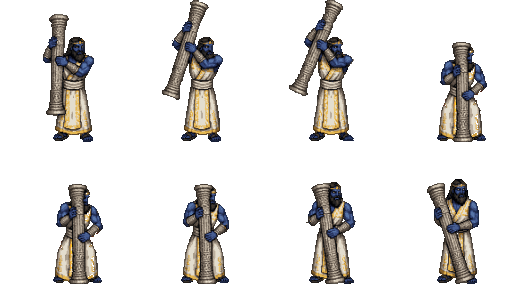
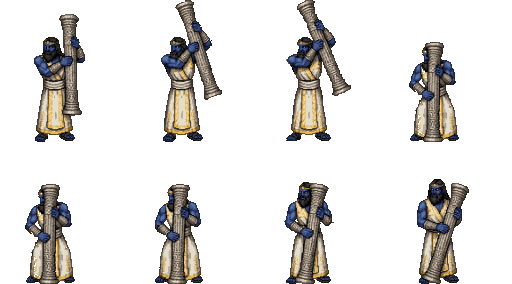
Tour : le Géant retourné vers la droite (il était tourné vers la gauche et marchait à reculons) ; fiche : les consignes du Tyran œil

diff --git a/tools/art/creature.py b/tools/art/creature.py
@@ -167,7 +167,7 @@ def choisir_fixe(donnees, ident, nom):
     ecrire(f"{BATAILLE}/{ident}.png", n.poser(q, largeur, len(q) + 2 + flotte, centre, marge_bas=flotte))
     f.setdefault("choix", {})["fixe"] = nom
     f["grande"] = grande.replace("\\", "/")
-    print(f"{BATAILLE}/{ident}.png installée ({largeur} × {len(q) + 2}) ; grande image gardée : {grande}")
+    print(f"{BATAILLE}/{ident}.png installée ({largeur} × {len(q) + 2 + flotte}) ; grande image gardée : {grande}")
 
 
 # --- animations ---
